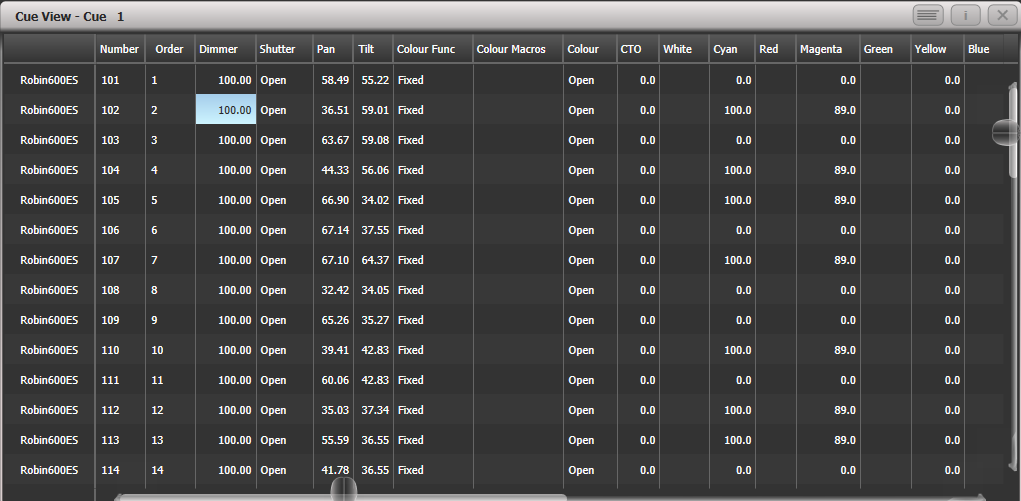
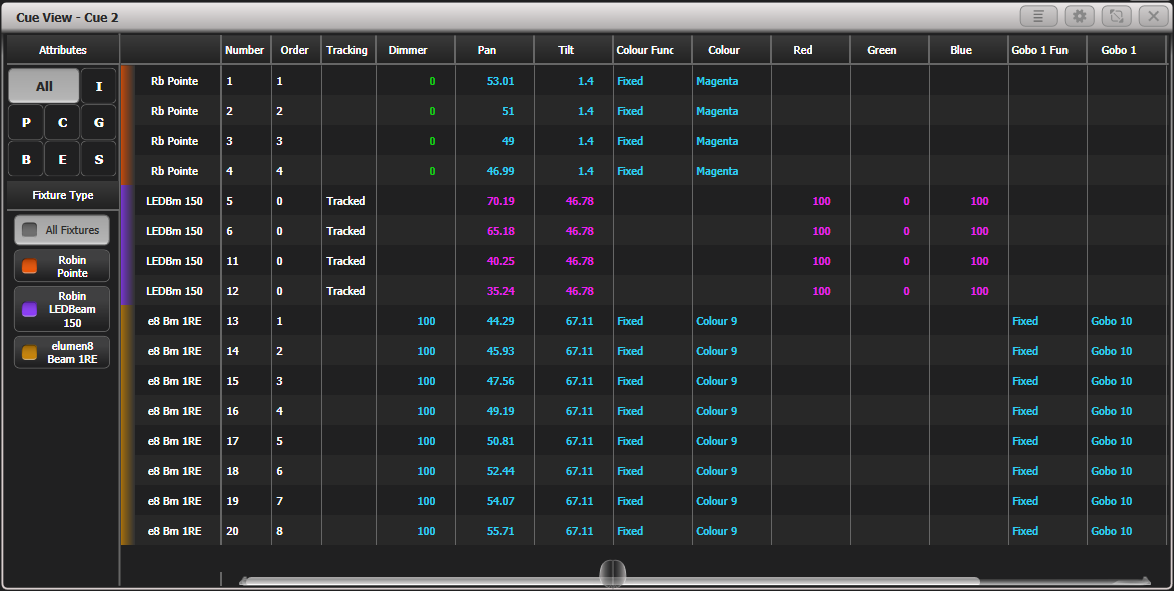
Explain fade out/delay out, fixes #434
Also upgrade cue list screenshots to more recent ones
And explain value colours in cue view window

diff --git a/docs/cue-lists/cue-list-timing.md b/docs/cue-lists/cue-list-timing.md
@@ -9,35 +9,20 @@ import Video from '@site/src/components/video.tsx';
 
 ## Time and Fade Options for Cue Lists
 
-Time settings are independent for each cue in the cue list. The display
-shows which cue you are working with. You can select which cue is active
-using **Wheel A** or by pressing <Keys.SoftKey>Select Cue Number</Keys.SoftKey> softkey in the **Edit Times** menu for the cue list.
+The easiest way to set timing options for cues in cue lists is using the Playback View grid display (press <Keys.HardKey>Open/View</Keys.HardKey> then the **Select** button of the playback). Tap on the value you want to change, or drag to select multiple values to change. You can also select the *active cue* using **Wheel A** or by pressing <Keys.SoftKey>Select Cue Number</Keys.SoftKey> softkey in the **Edit Times** menu for the cue list. You can select a range of values using **Wheel B**.
 
-&nbsp;*See the [diagram below](cue-list-timing.md#cue-linking--link-offset) for more information about overlaps and fade times.*
+Once you have selected values to change, the softkeys show you what you are setting.
 
-1. Press <Keys.SoftKey>Edit Times</Keys.SoftKey> at the root menu then the **Select** button
-of the Cue List.
-2. To change which cue you are editing, scroll through the list using **Wheel A** or press <Keys.SoftKey>Select Cue Number</Keys.SoftKey> then type the cue number you want to edit and press <Keys.HardKey>Enter</Keys.HardKey>.
-    - The Chase arrow buttons to the right of the Connect button also step through the cues.
-    - You can select a range of cues, enabling you to alter the timings of multiple cues all in one go, by using **Wheel B**, or in the [Playback View window](editing-cue-lists.md#playback-view-window), dragging across the cues you want to select in the grid.
-3. **Setting times**
-    -   To set the **delay time** between pressing <Keys.HardKey>Go</Keys.HardKey> and the cue starting,
-    press <Keys.SoftKey>Delay In</Keys.SoftKey> then type a time in seconds and press <Keys.HardKey>Enter</Keys.HardKey>.
-    -   To set the **fade in time** of the cue, press <Keys.SoftKey>Fade In</Keys.SoftKey> then type a
-    time in seconds and press <Keys.HardKey>Enter</Keys.HardKey>. *Both HTP and LTP channels are
-    affected by the fade.*
-    -   The **fade out time** of the cue is set by default to be the same as the
-    fade in time. You can change the fade out time by pressing <Keys.SoftKey>Fade
-    Out</Keys.SoftKey>, then type the time in seconds and press <Keys.HardKey>Enter</Keys.HardKey>. To set
-    equal to Fade In time, delete the time and leave the box blank.
-    *The fade out time starts when the next cue fires, so if you set the
-    time to 1 second, the outgoing cue would start a 1 second fade out
-    as the new cue begins its fade in.*
-    -   The <Keys.SoftKey>Delay Out</Keys.SoftKey> setting of the cue would normally be used if the
-    cue links automatically to the next cue, and sets a wait time
-    before the next cue starts its fade in. So the outgoing cue would
-    start to fade out, and the delay out time would run before the new
-    cue begins its fade in.
+![Cue List Timings](/docs/images/Cue-View-Timings.png)
+
+For each cue you can independently set fade times for fixtures which are fading in (to a higher dimmer level) and fixtures which are fading out/down (to a lower dimmer level). The fade-out times are normally set to be "As In", so the "Fade In" time will be used for all fixtures.
+
+LTP channels (all attributes other than brightness) will fade using the "Fade In" time.
+
+-   <Keys.SoftKey>Fade In</Keys.SoftKey> sets the fade time of fixtures which are fading to a higher dimmer level than in the previous cue, and also fade time of LTP channels. If the Fade/Delay Out times are set to "As In" (default) then this will also set the fade time of fixtures which are fading to a lower dimmer level. Type a time in seconds and press <Keys.HardKey>Enter</Keys.HardKey>.
+-   <Keys.SoftKey>Delay In</Keys.SoftKey> sets the delay time between pressing <Keys.HardKey>Go</Keys.HardKey> (or other cue trigger) and the start of the fade-in. 
+-   <Keys.SoftKey>Fade Out</Keys.SoftKey> sets the fade time of fixtures which are fading out/down to a lower dimmer level than in the previous cue. It is set by default to be "As In", the same as the fade in time. To go back to "As In", delete the time and leave the box blank. 
+-   <Keys.SoftKey>Delay Out</Keys.SoftKey> sets the delay time between pressing <Keys.HardKey>Go</Keys.HardKey> (or other cue trigger) and the start of the fade-out. It is set by default to be "As In", the same as the fade in time. To go back to "As In", delete the time and leave the box blank. 
 
 ## Cue Linking & Link Offset
 

diff --git a/docs/cue-lists/editing-cue-lists.md b/docs/cue-lists/editing-cue-lists.md
@@ -41,12 +41,21 @@ the softkeys.
 -   The context menu buttons allow you to view levels, shapes, effects
     and times for each attribute of each fixture in each cue.
 
--   If levels are set from a palette, the **View Palettes** button either
+-   You can remove values from fixtures by selecting the value(s) in the grid and pressing the <Keys.SoftKey>Off</Keys.SoftKey> softkey. Values set to **Off** can be restored later by pressing <Keys.SoftKey>On</Keys.SoftKey>.
+
+-   You can remove fixtures from the cue by selecting the fixture(s) in the left hand column and pressing <Keys.SoftKey>Remove Fixtures</Keys.SoftKey>.
+
+-   If levels are set from a palette, the <Keys.ContextKey>View Palettes</Keys.ContextKey> context menu button either
     shows you the palette used, or the underlying value.
 
--   If the **View Tracking Values** button is selected, [tracking values](cue-list-playback.md#tracking)
-    (values which have tracked through from another cue rather than
-    being stored directly in this cue) are shown in light grey.
+-   Values have different colours to show their tracking status. Use the [Tracking View](editing-cue-lists#editing-tracked-cues-using-tracking-view) window to edit how values are tracking between cues.
+    -  **White** means an unchanged hard (untracked) value.
+    -  **Green** means a hard value where the level has reduced.
+    -  **Cyan** means an initial value or a hard value where the level has increased.
+    -  **Magenta** means a tracked value (The *Tracking* column will also show *Tracked*).
+    -  **Red** means a block.
+
+-   You can hide tracked values using the <Keys.ContextKey>Show/Hide Tracked Values</Keys.ContextKey> context menu button.
 
 ## Moving, Copying and Deleting Individual Cues
 
